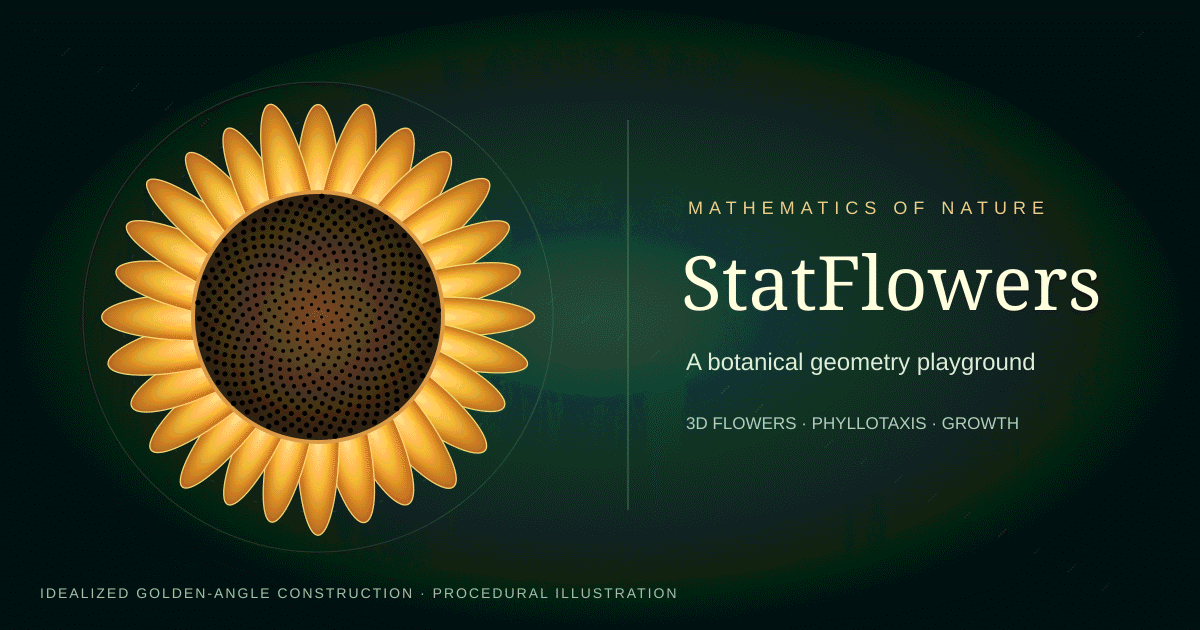
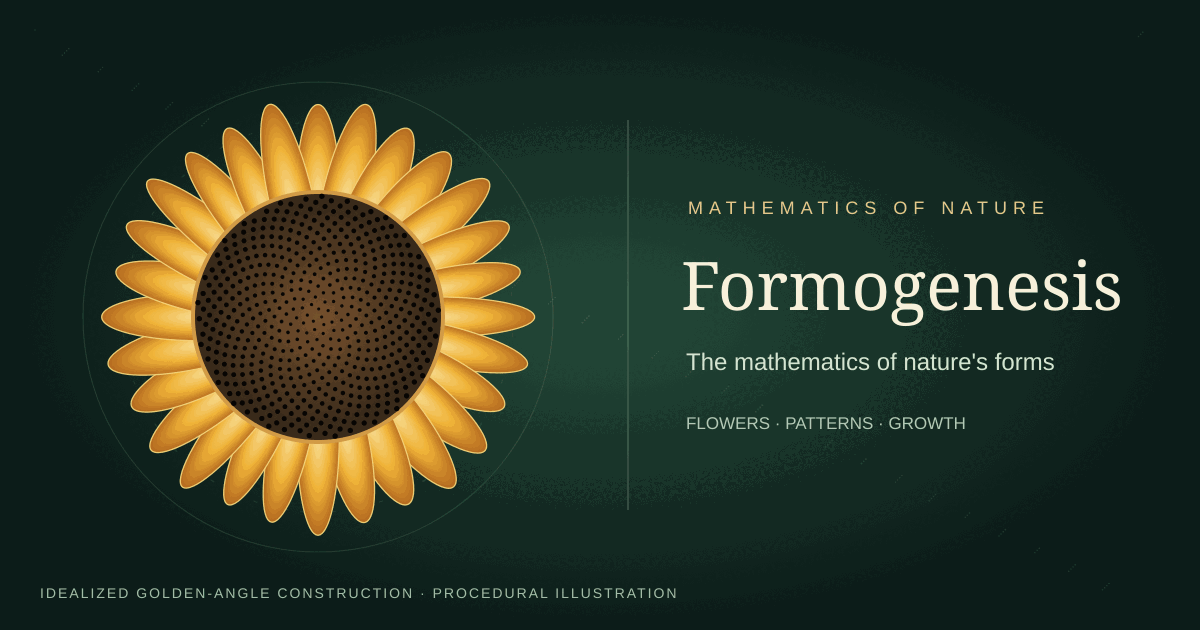
Rebrand flower experiment under Formogenesis identity

Changed region(s): [[0.555, 0.3921, 0.9558, 0.5127], [0.555, 0.5429, 0.8942, 0.6032], [0.555, 0.6635, 0.8633, 0.6937]]

diff --git a/index.html b/index.html
@@ -1,4 +1,4 @@
-<!doctype html><html lang="en"><head><meta charset="UTF-8"><meta name="viewport" content="width=device-width,initial-scale=1"><title>StatFlowers · 3D Botanical Studio</title><meta name="description" content="StatFlowers is an experimental 3D botanical studio for exploring flower shapes, growth animations and the mathematics of nature, from floral symmetry to Fibonacci spirals."><meta property="og:title" content="StatFlowers · 3D Botanical Studio"><meta property="og:description" content="StatFlowers is an experimental 3D botanical studio for exploring flower shapes, growth animations and the mathematics of nature, from floral symmetry to Fibonacci spirals."><meta property="og:type" content="website"><meta property="og:image" content="https://statsilk.github.io/StatFlowers/assets/social-preview.png"><meta property="og:image:width" content="1200"><meta property="og:image:height" content="630"><meta name="twitter:card" content="summary_large_image"><style>:root{font-family:Inter,ui-sans-serif,system-ui,-apple-system,'Segoe UI',sans-serif;color:#eaf3ee;background:#0a1615;font-synthesis:none}*{box-sizing:border-box}body{margin:0}header{height:54px;display:flex;align-items:center;justify-content:space-between;padding:0 19px;border-bottom:1px solid #28453c;background:#0d201d}header strong{font-size:17px;letter-spacing:-.4px}header small{font-size:12px;color:#9bc1b2}main{display:grid;grid-template-columns:minmax(0,1.42fr) minmax(350px,.9fr);height:calc(100vh - 54px);min-height:620px}.viewer{min-width:0;position:relative;overflow:hidden;background:linear-gradient(150deg,#112720,#112021)}#scene{width:100%;height:100%;display:block;touch-action:none;cursor:grab}#scene:active{cursor:grabbing}.overlay{position:absolute;top:15px;left:16px;pointer-events:none}.overlay h2{margin:0;font-size:19px}.overlay p{color:#b4d1c4;font-size:12px;margin:5px 0}.viewbuttons{position:absolute;right:14px;top:14px;display:flex;gap:5px}.viewbuttons button{padding:9px 12px}.under{position:absolute;bottom:14px;left:16px;right:16px;display:flex;justify-content:space-between;gap:8px;align-items:end}.under small{color:#b4cbbd;font-size:11px}.under button{background:#183d33}.inset{position:absolute;bottom:53px;right:14px;border:1px solid #416257;border-radius:11px;background:#0d201b;padding:9px;width:170px}.inset h3{font-size:11px;color:#b9dacb;margin:0 0 6px}.inset canvas{width:150px;height:150px;display:block;border-radius:8px}.panel{overflow-y:auto;padding:17px 18px 42px;background:#11211f;border-left:1px solid #29443a}.eyebrow{font-size:11px;letter-spacing:.11em;text-transform:uppercase;color:#91b9a6;margin:0 0 9px}.families{display:grid;grid-template-columns:repeat(4,minmax(0,1fr));gap:6px;margin-bottom:18px}button{border:1px solid #416b5b;border-radius:9px;color:#eaf8f1;background:#1c3730;padding:8px 11px;font:inherit;cursor:pointer;font-size:12px}button:hover{background:#2a4b40}button.selected{background:#367b5a;border-color:#66d69a}.family{padding:9px 4px}.sectionTitle{font-size:12px;color:#a4cbb7;font-weight:650;margin:16px 0 8px}.angles{display:flex;gap:6px;flex-wrap:wrap;margin:8px 0}.preset{padding:6px 9px}.science{font-size:12px;line-height:1.5;color:#c3d8cb;border:1px solid #305345;padding:10px;border-radius:10px;background:#122c23}.note{font-size:11px;line-height:1.45;color:#9ec1af}.controls{display:grid;grid-template-columns:1fr 1fr;gap:12px}.controlGroup{min-width:0}.controlGroup h3{font-size:13px;color:#dbeddd;margin:17px 0 6px;padding-bottom:6px;border-bottom:1px solid #345346}.control{margin:12px 0 16px}.controlHead{display:flex;justify-content:space-between;gap:8px;font-size:12px;color:#e1ece5}.controlHead output{color:#b6e0b8;font-variant-numeric:tabular-nums}.control input{width:100%;accent-color:#82c9a0;margin:9px 0 2px}.control small{display:block;color:#88a99b;font-size:10.5px;line-height:1.4}.colorbox{display:flex;align-items:center;justify-content:space-between;padding:9px 12px;border:1px solid #315244;border-radius:10px;font-size:12px;grid-column:1/-1}.colorbox input{width:53px;height:30px;background:transparent;border:none}.actions{display:flex;gap:7px;flex-wrap:wrap;margin:16px 0}.actions button{flex:1}.angleHelp{font-size:11px;color:#a7cabb;line-height:1.5}@media(max-width:870px){header small{display:none}main{display:block;height:auto}.viewer{height:min(66vh,570px);min-height:390px}.panel{max-height:none}.inset{width:128px}.inset canvas{width:108px;height:108px}.controls{grid-template-columns:1fr 1fr}}@media(max-width:500px){.families{grid-template-columns:repeat(4,1fr)}.controls{grid-template-columns:1fr}.inset{display:none}.viewer{height:57vh;min-height:340px}}
+<!doctype html><html lang="en"><head><meta charset="UTF-8"><meta name="viewport" content="width=device-width,initial-scale=1"><title>Formogenesis · Flowers</title><meta name="description" content="Formogenesis Flowers is an interactive botanical experiment for exploring flower shapes, growth animations and the mathematics of nature, from floral symmetry to Fibonacci spirals."><meta property="og:title" content="Formogenesis · Flowers"><meta property="og:description" content="Formogenesis Flowers is an interactive botanical experiment for exploring flower shapes, growth animations and the mathematics of nature, from floral symmetry to Fibonacci spirals."><meta property="og:type" content="website"><meta property="og:image" content="https://statsilk.github.io/StatFlowers/assets/social-preview.png"><meta property="og:image:width" content="1200"><meta property="og:image:height" content="630"><meta name="twitter:card" content="summary_large_image"><style>:root{font-family:Inter,ui-sans-serif,system-ui,-apple-system,'Segoe UI',sans-serif;color:#eaf3ee;background:#0a1615;font-synthesis:none}*{box-sizing:border-box}body{margin:0}header{height:54px;display:flex;align-items:center;justify-content:space-between;padding:0 19px;border-bottom:1px solid #28453c;background:#0d201d}header strong{font-size:17px;letter-spacing:-.4px}header small{font-size:12px;color:#9bc1b2}main{display:grid;grid-template-columns:minmax(0,1.42fr) minmax(350px,.9fr);height:calc(100vh - 54px);min-height:620px}.viewer{min-width:0;position:relative;overflow:hidden;background:linear-gradient(150deg,#112720,#112021)}#scene{width:100%;height:100%;display:block;touch-action:none;cursor:grab}#scene:active{cursor:grabbing}.overlay{position:absolute;top:15px;left:16px;pointer-events:none}.overlay h2{margin:0;font-size:19px}.overlay p{color:#b4d1c4;font-size:12px;margin:5px 0}.viewbuttons{position:absolute;right:14px;top:14px;display:flex;gap:5px}.viewbuttons button{padding:9px 12px}.under{position:absolute;bottom:14px;left:16px;right:16px;display:flex;justify-content:space-between;gap:8px;align-items:end}.under small{color:#b4cbbd;font-size:11px}.under button{background:#183d33}.inset{position:absolute;bottom:53px;right:14px;border:1px solid #416257;border-radius:11px;background:#0d201b;padding:9px;width:170px}.inset h3{font-size:11px;color:#b9dacb;margin:0 0 6px}.inset canvas{width:150px;height:150px;display:block;border-radius:8px}.panel{overflow-y:auto;padding:17px 18px 42px;background:#11211f;border-left:1px solid #29443a}.eyebrow{font-size:11px;letter-spacing:.11em;text-transform:uppercase;color:#91b9a6;margin:0 0 9px}.families{display:grid;grid-template-columns:repeat(4,minmax(0,1fr));gap:6px;margin-bottom:18px}button{border:1px solid #416b5b;border-radius:9px;color:#eaf8f1;background:#1c3730;padding:8px 11px;font:inherit;cursor:pointer;font-size:12px}button:hover{background:#2a4b40}button.selected{background:#367b5a;border-color:#66d69a}.family{padding:9px 4px}.sectionTitle{font-size:12px;color:#a4cbb7;font-weight:650;margin:16px 0 8px}.angles{display:flex;gap:6px;flex-wrap:wrap;margin:8px 0}.preset{padding:6px 9px}.science{font-size:12px;line-height:1.5;color:#c3d8cb;border:1px solid #305345;padding:10px;border-radius:10px;background:#122c23}.note{font-size:11px;line-height:1.45;color:#9ec1af}.controls{display:grid;grid-template-columns:1fr 1fr;gap:12px}.controlGroup{min-width:0}.controlGroup h3{font-size:13px;color:#dbeddd;margin:17px 0 6px;padding-bottom:6px;border-bottom:1px solid #345346}.control{margin:12px 0 16px}.controlHead{display:flex;justify-content:space-between;gap:8px;font-size:12px;color:#e1ece5}.controlHead output{color:#b6e0b8;font-variant-numeric:tabular-nums}.control input{width:100%;accent-color:#82c9a0;margin:9px 0 2px}.control small{display:block;color:#88a99b;font-size:10.5px;line-height:1.4}.colorbox{display:flex;align-items:center;justify-content:space-between;padding:9px 12px;border:1px solid #315244;border-radius:10px;font-size:12px;grid-column:1/-1}.colorbox input{width:53px;height:30px;background:transparent;border:none}.actions{display:flex;gap:7px;flex-wrap:wrap;margin:16px 0}.actions button{flex:1}.angleHelp{font-size:11px;color:#a7cabb;line-height:1.5}@media(max-width:870px){header small{display:none}main{display:block;height:auto}.viewer{height:min(66vh,570px);min-height:390px}.panel{max-height:none}.inset{width:128px}.inset canvas{width:108px;height:108px}.controls{grid-template-columns:1fr 1fr}}@media(max-width:500px){.families{grid-template-columns:repeat(4,1fr)}.controls{grid-template-columns:1fr}.inset{display:none}.viewer{height:57vh;min-height:340px}}
 
 .roseStyleButtons{display:grid;grid-template-columns:repeat(2,minmax(0,1fr));gap:6px}.roseStyleButtons button{padding:9px 6px}.growthBar{position:absolute;left:16px;bottom:66px;width:min(360px,calc(100% - 32px));z-index:5;background:#102821df;border:1px solid #42634f;border-radius:12px;padding:9px 12px;display:flex;align-items:center;gap:10px;color:#e1f2e7;font-size:12px}.growthBar input{flex:1;min-width:60px;accent-color:#93cda8}.growthBar output{min-width:34px;text-align:right}
 
@@ -46,4 +46,4 @@
 .cardEmbed header,.cardEmbed .panel,.cardEmbed .overlay,.cardEmbed .viewbuttons,.cardEmbed .zoomControls,.cardEmbed .growthBar,.cardEmbed .roseStageLabel,.cardEmbed .inset,.cardEmbed .under,.cardEmbed .mobileToolbar{display:none!important}
 .cardEmbed main{display:block!important;height:100dvh!important;min-height:0!important}
 .cardEmbed .viewer{height:100dvh!important;min-height:0!important;width:100%!important;max-height:none!important}
-</style><script>if(new URLSearchParams(location.search).has('card'))document.documentElement.classList.add('cardEmbed')</script><script type="importmap">{"imports":{"three":"https://cdn.jsdelivr.net/npm/three@0.181.0/build/three.module.js"}}</script></head><body><header><strong>✿ StatFlowers <span style="color:#89bc9d">3D</span></strong><small><a href="./cards.html" style="color:#b5ebc5;text-decoration:none;font-weight:700">✉ Make a 3D flower card</a> · StatSilk</small></header><main><section class="viewer"><canvas id="scene"></canvas><div class="overlay"><h2 id="flowerLabel">Rose</h2><p id="symmetry">Fibonacci spiral</p></div><div class="viewbuttons"><button id="topBtn">◎ Top view</button><button id="sideBtn">◈ 3D view</button><button id="resetView">Reset view</button><button id="replayGrowth">▶ Watch bloom open</button></div><div class="zoomControls" aria-label="Camera zoom"><button type="button" id="zoomOut" aria-label="Zoom out">−</button><span id="zoomValue">100%</span><button type="button" id="zoomIn" aria-label="Zoom in">+</button></div><div class="growthBar"><label for="growthStage">Bud → bloom</label><input id="growthStage" aria-label="Growth stage" type="range" min="0" max="100" value="100" step="1"><output id="growthValue">100%</output></div><div id="roseStageLabel" class="roseStageLabel" aria-live="polite" hidden></div><div class="inset"><h3>MATHEMATICAL ARRANGEMENT</h3><canvas id="patternCanvas"></canvas></div><div class="under"><small>Drag to rotate · Scroll to zoom · All edits update instantly</small><button id="download">Save PNG</button></div></section><aside class="panel mobileCollapsed" id="mobilePanel"><p class="eyebrow">Choose flower family</p><div id="families" class="families"></div><p class="sectionTitle" id="angleTitle">Floret spiral</p><div id="angles" class="angles"></div><div id="angleDirect"></div><p id="angleHelp" class="angleHelp"></p><section id="roseStyles" class="roseStyles" hidden><p class="sectionTitle">Rose form</p><div class="roseStyleButtons" id="roseStyleButtons"></div><p id="roseStyleHelp" class="angleHelp"></p></section><div id="controls" class="controls"></div><p class="sectionTitle">Botanical explanation</p><div class="science" id="science"></div><p class="note" role="note" style="border-left:3px solid #7eac95;padding:7px 10px;background:#193329;border-radius:5px"><strong>Experimental model.</strong> Flower forms and bloom animations are illustrative approximations, not mathematically exact reconstructions or predictive plant biology.</p><p class="note">The model is an artistic 3D geometry experiment, not a predictive plant-growth simulation. Golden-angle phyllotaxis applies to packed florets in composite flower heads; flowers with few petals commonly show whorl symmetry.</p><div class="actions"><button id="resetFlower">Reset flower</button><button id="copySettings">Copy parameters</button><span id="copied"></span></div></aside></main><nav class="mobileToolbar" aria-label="Mobile flower controls"><button id="mobileExplore" type="button" aria-pressed="true">🌸 Explore flower</button><button id="mobileCustomize" type="button" aria-expanded="false" aria-controls="mobilePanel">⚙ Customize</button></nav><script>(function(){const panel=document.getElementById('mobilePanel'),explore=document.getElementById('mobileExplore'),custom=document.getElementById('mobileCustomize'),mq=window.matchMedia('(max-width:870px)');function setOpen(open){panel.classList.toggle('mobileCollapsed',mq.matches&&!open);custom.setAttribute('aria-expanded',String(open));explore.setAttribute('aria-pressed',String(!open));custom.classList.toggle('selected',open);explore.classList.toggle('selected',!open)}custom.addEventListener('click',()=>{setOpen(true);panel.scrollIntoView({behavior:'smooth',block:'start'})});explore.addEventListener('click',()=>{setOpen(false);document.querySelector('.viewer').scrollIntoView({behavior:'smooth',block:'start'})});mq.addEventListener('change',()=>setOpen(false));setOpen(false)})();</script><script type="module" src="./app.js"></script></body></html>
+</style><script>if(new URLSearchParams(location.search).has('card'))document.documentElement.classList.add('cardEmbed')</script><script type="importmap">{"imports":{"three":"https://cdn.jsdelivr.net/npm/three@0.181.0/build/three.module.js"}}</script></head><body><header><strong>✿ Formogenesis <span style="color:#89bc9d">Flowers</span></strong><small><a href="./cards.html" style="color:#b5ebc5;text-decoration:none;font-weight:700">✉ Make a 3D flower card</a></small></header><main><section class="viewer"><canvas id="scene"></canvas><div class="overlay"><h2 id="flowerLabel">Rose</h2><p id="symmetry">Fibonacci spiral</p></div><div class="viewbuttons"><button id="topBtn">◎ Top view</button><button id="sideBtn">◈ 3D view</button><button id="resetView">Reset view</button><button id="replayGrowth">▶ Watch bloom open</button></div><div class="zoomControls" aria-label="Camera zoom"><button type="button" id="zoomOut" aria-label="Zoom out">−</button><span id="zoomValue">100%</span><button type="button" id="zoomIn" aria-label="Zoom in">+</button></div><div class="growthBar"><label for="growthStage">Bud → bloom</label><input id="growthStage" aria-label="Growth stage" type="range" min="0" max="100" value="100" step="1"><output id="growthValue">100%</output></div><div id="roseStageLabel" class="roseStageLabel" aria-live="polite" hidden></div><div class="inset"><h3>MATHEMATICAL ARRANGEMENT</h3><canvas id="patternCanvas"></canvas></div><div class="under"><small>Drag to rotate · Scroll to zoom · All edits update instantly</small><button id="download">Save PNG</button></div></section><aside class="panel mobileCollapsed" id="mobilePanel"><p class="eyebrow">Choose flower family</p><div id="families" class="families"></div><p class="sectionTitle" id="angleTitle">Floret spiral</p><div id="angles" class="angles"></div><div id="angleDirect"></div><p id="angleHelp" class="angleHelp"></p><section id="roseStyles" class="roseStyles" hidden><p class="sectionTitle">Rose form</p><div class="roseStyleButtons" id="roseStyleButtons"></div><p id="roseStyleHelp" class="angleHelp"></p></section><div id="controls" class="controls"></div><p class="sectionTitle">Botanical explanation</p><div class="science" id="science"></div><p class="note" role="note" style="border-left:3px solid #7eac95;padding:7px 10px;background:#193329;border-radius:5px"><strong>Experimental model.</strong> Flower forms and bloom animations are illustrative approximations, not mathematically exact reconstructions or predictive plant biology.</p><p class="note">The model is an artistic 3D geometry experiment, not a predictive plant-growth simulation. Golden-angle phyllotaxis applies to packed florets in composite flower heads; flowers with few petals commonly show whorl symmetry.</p><div class="actions"><button id="resetFlower">Reset flower</button><button id="copySettings">Copy parameters</button><span id="copied"></span></div></aside></main><nav class="mobileToolbar" aria-label="Mobile flower controls"><button id="mobileExplore" type="button" aria-pressed="true">🌸 Explore flower</button><button id="mobileCustomize" type="button" aria-expanded="false" aria-controls="mobilePanel">⚙ Customize</button></nav><script>(function(){const panel=document.getElementById('mobilePanel'),explore=document.getElementById('mobileExplore'),custom=document.getElementById('mobileCustomize'),mq=window.matchMedia('(max-width:870px)');function setOpen(open){panel.classList.toggle('mobileCollapsed',mq.matches&&!open);custom.setAttribute('aria-expanded',String(open));explore.setAttribute('aria-pressed',String(!open));custom.classList.toggle('selected',open);explore.classList.toggle('selected',!open)}custom.addEventListener('click',()=>{setOpen(true);panel.scrollIntoView({behavior:'smooth',block:'start'})});explore.addEventListener('click',()=>{setOpen(false);document.querySelector('.viewer').scrollIntoView({behavior:'smooth',block:'start'})});mq.addEventListener('change',()=>setOpen(false));setOpen(false)})();</script><script type="module" src="./app.js"></script></body></html>

diff --git a/petal-lab.html b/petal-lab.html
@@ -1,9 +1,9 @@
 <!doctype html>
-<html lang="en"><head><meta charset="utf-8"><meta name="viewport" content="width=device-width,initial-scale=1"><title>StatFlowers | Mathematical Petal Laboratory</title>
+<html lang="en"><head><meta charset="utf-8"><meta name="viewport" content="width=device-width,initial-scale=1"><title>Formogenesis | Petal Geometry</title>
 <style>
 :root{font:14px system-ui,sans-serif;color:#e8f5ee;background:#0d1e1a}*{box-sizing:border-box}body{margin:0}header{padding:13px 17px;display:flex;gap:15px;align-items:center;justify-content:space-between;border-bottom:1px solid #36564b}a{color:#a4e9bd}main{display:grid;grid-template-columns:minmax(0,1fr) 315px;min-height:calc(100dvh - 53px)}#view{width:100%;height:100%;min-height:520px;touch-action:none;display:block;background:#112620}aside{padding:15px;overflow:auto;border-left:1px solid #36564b}h1{font-size:17px;margin:0}h2{font-size:15px}p,small{color:#b5cbbd;line-height:1.5}label{display:flex;justify-content:space-between;gap:8px;margin-top:14px}input[type=range],select{width:100%;margin-top:7px;accent-color:#83d5a6}select,button{color:#ecf9ef;background:#224637;border:1px solid #507965;border-radius:8px;padding:9px}button{cursor:pointer}.buttons{display:flex;gap:6px;flex-wrap:wrap}.buttons button{flex:1}.active{background:#357c56}.metric{font-variant-numeric:tabular-nums;padding:8px 0;border-bottom:1px solid #345145}#overlay{position:absolute;top:70px;left:14px;background:#11291ecf;padding:10px;border-radius:9px;pointer-events:none;max-width:280px}.stage{position:relative;min-height:520px}footer{font-size:11px;color:#a9bdb0;margin-top:15px}@media(max-width:800px){main{display:block}.stage{height:62dvh;min-height:340px}#view{min-height:340px}aside{border-left:0;border-top:1px solid #36564b}header{flex-wrap:wrap}}
 </style><script type="importmap">{"imports":{"three":"https://cdn.jsdelivr.net/npm/three@0.181.0/build/three.module.js"}}</script></head>
-<body><header><h1>✿ StatFlowers · Petal geometry lab <span id="buildVersion" style="font-size:12px;color:#9fe3b5;white-space:nowrap">v0.2.6</span></h1><a href="./index.html">← Main studio</a></header><main><div class="stage"><canvas id="view"></canvas><div id="overlay">Drag to rotate · pinch to zoom<br><span style="color:#ffb477">● Orange: procedural surface</span><br><span style="color:#b3f0a3">● Green: kinematic growth-stretch model</span></div></div><aside><h2>Experimental petal comparison <small style="font-weight:normal">· updated 15 Nov 2026</small></h2><p>Compare a procedural surface (orange) with a spatially varying growth-stretch deformation (green). Switch to heatmaps to compare two curvature estimators on identical procedural geometry. Neither method simulates cellular growth or thin-shell mechanics.</p>
+<body><header><h1>✿ Formogenesis · Petal geometry <span id="buildVersion" style="font-size:12px;color:#9fe3b5;white-space:nowrap">v0.2.7</span></h1><a href="./index.html">← Flowers</a></header><main><div class="stage"><canvas id="view"></canvas><div id="overlay">Drag to rotate · pinch to zoom<br><span style="color:#ffb477">● Orange: procedural surface</span><br><span style="color:#b3f0a3">● Green: kinematic growth-stretch model</span></div></div><aside><h2>Experimental petal comparison <small style="font-weight:normal">· updated 15 Nov 2026</small></h2><p>Compare a procedural surface (orange) with a spatially varying growth-stretch deformation (green). Switch to heatmaps to compare two curvature estimators on identical procedural geometry. Neither method simulates cellular growth or thin-shell mechanics.</p>
 <label for="flower">Flower</label><select id="flower"><option value="rose">Rose-like whorl</option><option value="tulip">Tulip-like whorl</option></select>
 <label for="layout">Experiment</label><select id="layout"><option value="pair">Side-by-side petals</option><option value="whorl">Full flower whorls</option></select>
 <label for="colorMode">Surface display</label><select id="colorMode"><option value="pigment">Shape comparison, soft colors</option><option value="curvature">Procedural vs growth model</option><option value="heatmap">Curvature estimators (same shape)</option></select>

diff --git a/cards.html b/cards.html
@@ -1,6 +1,6 @@
 <!doctype html>
 <html lang="en"><head><meta charset="utf-8"><meta name="viewport" content="width=device-width,initial-scale=1">
-<title>3D Flower Cards | StatFlowers</title><meta name="description" content="Create and share an interactive 3D flower greeting card."><meta property="og:type" content="website"><meta property="og:title" content="3D Flower Cards · StatFlowers"><meta property="og:description" content="Send an interactive, customizable 3D flower with your own message."><meta property="og:image" content="https://statsilk.github.io/StatFlowers/assets/social-preview.png"><meta property="og:image:width" content="1200"><meta property="og:image:height" content="630"><meta name="twitter:card" content="summary_large_image">
+<title>Flower Cards | Formogenesis</title><meta name="description" content="Create and share an interactive 3D flower greeting card."><meta property="og:type" content="website"><meta property="og:title" content="Flower Cards · Formogenesis"><meta property="og:description" content="Send an interactive, customizable 3D flower with your own message."><meta property="og:image" content="https://statsilk.github.io/StatFlowers/assets/social-preview.png"><meta property="og:image:width" content="1200"><meta property="og:image:height" content="630"><meta name="twitter:card" content="summary_large_image">
 <style>
 :root{font-family:Inter,system-ui,sans-serif;color:#f6eee9;background:#1b2421}*{box-sizing:border-box}body{margin:0}
 header{padding:14px clamp(15px,4vw,45px);display:flex;align-items:center;justify-content:space-between;gap:15px;border-bottom:1px solid #45554c}a{color:#bde7c9}header a{text-decoration:none}header strong{font-size:18px}
@@ -20,7 +20,7 @@ button{font:inherit;cursor:pointer;border-radius:9px;padding:11px 14px;backgroun
 .recipient .editor{display:none}.recipient main{display:block}.recipient .preview{height:calc(100dvh - 62px);min-height:550px}.recipient .message{bottom:8%}
 @media(max-width:800px){main{display:block}.preview{height:65dvh;min-height:420px}.editor{padding:20px}.recipient .preview{height:calc(100dvh - 62px)}}
 </style></head><body>
-<header><strong>✿ StatFlowers <span style="color:#a9d7b2">Cards</span></strong><a href="./">Explore the flower studio</a></header>
+<header><strong>✿ Formogenesis <span style="color:#a9d7b2">Cards</span></strong><a href="./">Explore Flowers</a></header>
 <main><section class="preview" aria-label="Interactive 3D greeting card">
 <iframe id="flowerView" title="Interactive 3D flower: drag to rotate and pinch to zoom" src="./index.html?card=1"></iframe>
 <div class="message"><h1 id="titlePreview"></h1><p id="messagePreview"></p><small id="fromPreview"></small></div>
@@ -44,7 +44,7 @@ let recipient=params.get('view')==='1',ready=false;
 for(const key of keys){if(params.has(key)){const value=params.get(key).slice(0,key==='message'?500:90);if(key==='flower'&&!Object.hasOwn(colors,value))continue;if(key==='color'&&!/^#[0-9a-fA-F]{6}$/.test(value))continue;$(key).value=value;}}
 if(recipient)document.body.classList.add('recipient');
 function updateText(){$('titlePreview').textContent=$('heading').value;$('messagePreview').textContent=$('message').value;$('fromPreview').textContent=$('from').value?'With love, '+$('from').value:'';}
-function updateFlower(bloom=false){if(!ready)return;$('flowerView').contentWindow.postMessage({type:'statflowers-card',flower:$('flower').value,color:$('color').value,open:Number($('open').value),bloom},location.origin)}
+function updateFlower(bloom=false){if(!ready)return;$('flowerView').contentWindow.postMessage({type:'formogenesis-card',flower:$('flower').value,color:$('color').value,open:Number($('open').value),bloom},location.origin)}
 function encode(view=true){const p=new URLSearchParams();for(const key of keys)p.set(key,$(key).value);if(view)p.set('view','1');return location.origin+location.pathname+'#'+p.toString()}
 $('flowerView').addEventListener('load',()=>{ready=true;updateFlower(recipient)});
 for(const key of keys){$(key).addEventListener('input',()=>{updateText();updateFlower()})}

diff --git a/app.js b/app.js
@@ -446,7 +446,7 @@ $('copySettings').onclick=()=>{const json=JSON.stringify({flower:family,settings
 setFlower(family);setMode('perspective');resize();
 // Card viewer uses the same Three.js flower engine; no duplicate geometry.
 window.addEventListener('message',event=>{
- if(event.origin!==location.origin||!event.data||event.data.type!=='statflowers-card')return;
+ if(event.origin!==location.origin||!event.data||!['formogenesis-card','statflowers-card'].includes(event.data.type))return;
  const d=event.data;
  if(!Object.prototype.hasOwnProperty.call(presets,d.flower))return;
  if(family!==d.flower)setFlower(d.flower);

diff --git a/README.md b/README.md
@@ -1,14 +1,16 @@
-# StatFlowers 🌸
+# Formogenesis
 
-StatFlowers is an experimental 3D botanical studio for exploring flower shapes, growth animations and the mathematics of nature, from floral symmetry to Fibonacci spirals.
+*Exploring the mathematics of nature's forms.*
+
+Formogenesis is an open collection of interactive experiments in natural pattern formation, mathematical geometry and growth. The first experiment, **Flowers**, explores 3D botanical shapes, bloom animations and phyllotaxis. Future experiments may explore mushrooms, fingerprints and other natural forms. The visual models are experimental, with their scientific limitations documented alongside them.
 
 ![Procedural sunflower and golden-angle floret visualization](assets/social-preview.png)
 
-*Illustrative procedural preview of sunflower phyllotaxis; the [live studio](https://statsilk.github.io/StatFlowers/) contains the interactive 3D models.*
+*Illustrative procedural preview of sunflower phyllotaxis. The [Flowers experiment](https://statsilk.github.io/StatFlowers/) contains the interactive 3D models.*
 
 ## Run the app
 
-[**Explore StatFlowers live**](https://statsilk.github.io/StatFlowers/) · [**Make a 3D greeting card**](https://statsilk.github.io/StatFlowers/cards.html) · [**Compare petal methods**](https://statsilk.github.io/StatFlowers/petal-lab.html).
+[**Explore Flowers**](https://statsilk.github.io/StatFlowers/) · [**Create a 3D flower card**](https://statsilk.github.io/StatFlowers/cards.html) · [**Compare petal methods**](https://statsilk.github.io/StatFlowers/petal-lab.html).
 
 The site runs directly in your browser. `index.html` is the interface, `app.js` contains the flower geometry and controls, and Three.js is loaded from a CDN. An internet connection is required.
 
@@ -16,7 +18,9 @@ The site runs directly in your browser. `index.html` is the interface, `app.js` 
 
 See the [v0.1.0 release notes](RELEASE_NOTES_v0.1.0.md). This is an experimental preview; botanical realism is still being refined.
 
-## Source layout
+## Source layout — Flowers experiment
+
+The existing flower application stays at the repository root for now to preserve published URLs. Each future experiment can remain independently versioned and published, with a shared Formogenesis index connecting them. Reusable visualization and math code can be extracted into shared packages when it is actually shared by more than one experiment.
 
 - `index.html`: interactive 3D studio interface and responsive layout
 - `app.js`: procedural flower meshes, growth stages, 3D renderer and interactions
@@ -49,7 +53,7 @@ For composite heads, the floret arrangement follows an idealized Vogel-type radi
 
 ## Origins
 
-Independently implemented for StatSilk. Inspired by botanical geometry approaches such as [Floraison](https://github.com/Wally869/Floraison); this project is **not a fork** and does not include Floraison source code.
+Independently implemented for this project. Inspired by botanical geometry approaches such as [Floraison](https://github.com/Wally869/Floraison); this project is **not a fork** and does not include Floraison source code.
 
 ## Changes and development status
 

diff --git a/CHANGELOG.md b/CHANGELOG.md
@@ -1,8 +1,13 @@
 # Changelog
 
-Notable changes to StatFlowers are documented here. This project is experimental; versions describe development milestones rather than scientific validation.
+Notable changes to Formogenesis: Flowers are documented here. Versions describe development milestones, not scientific validation.
 
-## [Unreleased] - 2026-11-15
+## [0.2.7] - 2026-11-15
+
+### Formogenesis identity
+- Adopted **Formogenesis** as the umbrella name and **Flowers** as this experiment's name, without a "Lab" suffix.
+- Updated visible application and card branding, scientific documentation, page titles and social artwork, while retaining working published URLs.
+- Kept standalone experiment boundaries so future mushrooms and fingerprint experiments can be added without forcing premature shared dependencies.
 
 ### Documentation and usability
 - Reconciled petal lab terminology and its single v0.2.6 version label with the growth-stretch and curvature experiments.
@@ -52,12 +57,12 @@ Notable changes to StatFlowers are documented here. This project is experimental
 ## [0.1.0] - 2026-11-13
 
 ### Added
-- First public-source release of the independent StatFlowers 3D flower playground.
+- First public-source release of the independent 3D Flowers playground.
 - Rose, tulip, lily, sunflower, daisy, gerbera, coneflower, and poppy families.
 - Geometric rose-style variants, editable flower parameters, growth animation and overhead views.
 - Approximate golden-angle floret arrangements for composite flower heads.
 - MIT license and scientific-accuracy notice.
 
-[Unreleased]: https://github.com/StatSilk/StatFlowers/commits/main/
+[0.2.7]: https://github.com/StatSilk/StatFlowers/commits/main/
 [0.2.6]: https://github.com/StatSilk/StatFlowers/commits/main/
 [0.1.0]: https://github.com/StatSilk/StatFlowers/commits/main/

diff --git a/PETAL_CURVATURE_METHODS.md b/PETAL_CURVATURE_METHODS.md
@@ -2,13 +2,13 @@
 
 Published preview: https://statsilk.github.io/StatFlowers/petal-lab.html
 
-## Color legend (v0.2.6)
+## Color legend (v0.2.7)
 - **Orange, shape mode:** the original procedural petal surface.
 - **Green, shape mode:** a kinematic growth-stretch deformation of that surface, with spatially varying longitudinal and transverse stretches.
 - **Orange, heatmap mode:** a directional tangent-change proxy.
 - **Green, heatmap mode:** cotangent-weighted discrete mean-curvature magnitude.
 
-The blue flat baseline is **not rendered** in v0.2.6. Default shape comparison uses two different geometries. See [DIFFERENTIAL_GROWTH_EXPERIMENT.md](DIFFERENTIAL_GROWTH_EXPERIMENT.md) for the growth-stretch parameterization. It is an illustrative kinematic construction, **not** a solution of tissue growth, stress, strain compatibility, elastic force balance, or petal self-contact. In heatmap mode, orange and green use the **same procedural petal mesh** and independently normalized estimators; their colors must not be treated as equal physical units.
+The blue flat baseline is **not rendered** in v0.2.7. Default shape comparison uses two different geometries. See [DIFFERENTIAL_GROWTH_EXPERIMENT.md](DIFFERENTIAL_GROWTH_EXPERIMENT.md) for the growth-stretch parameterization. It is an illustrative kinematic construction, **not** a solution of tissue growth, stress, strain compatibility, elastic force balance, or petal self-contact. In heatmap mode, orange and green use the **same procedural petal mesh** and independently normalized estimators; their colors must not be treated as equal physical units.
 
 ## Method
 For a triangle mesh, each triangle contributes cotangents of its interior angles to weights on opposite edges. For vertex `i`, the discrete Laplace-Beltrami estimate is

diff --git a/RELEASE_NOTES_v0.1.0.md b/RELEASE_NOTES_v0.1.0.md
@@ -1,6 +1,6 @@
-# StatFlowers v0.1.0 — First Public Preview 🌸
+# Formogenesis Flowers v0.1.0 — First Public Preview 🌸
 
-StatFlowers is an interactive 3D botanical studio for exploring procedural flower forms, bloom development and mathematical patterns.
+Flowers is an interactive 3D botanical experiment in the Formogenesis collection, exploring procedural flower forms, bloom development and mathematical patterns.
 
 ## Highlights
 
